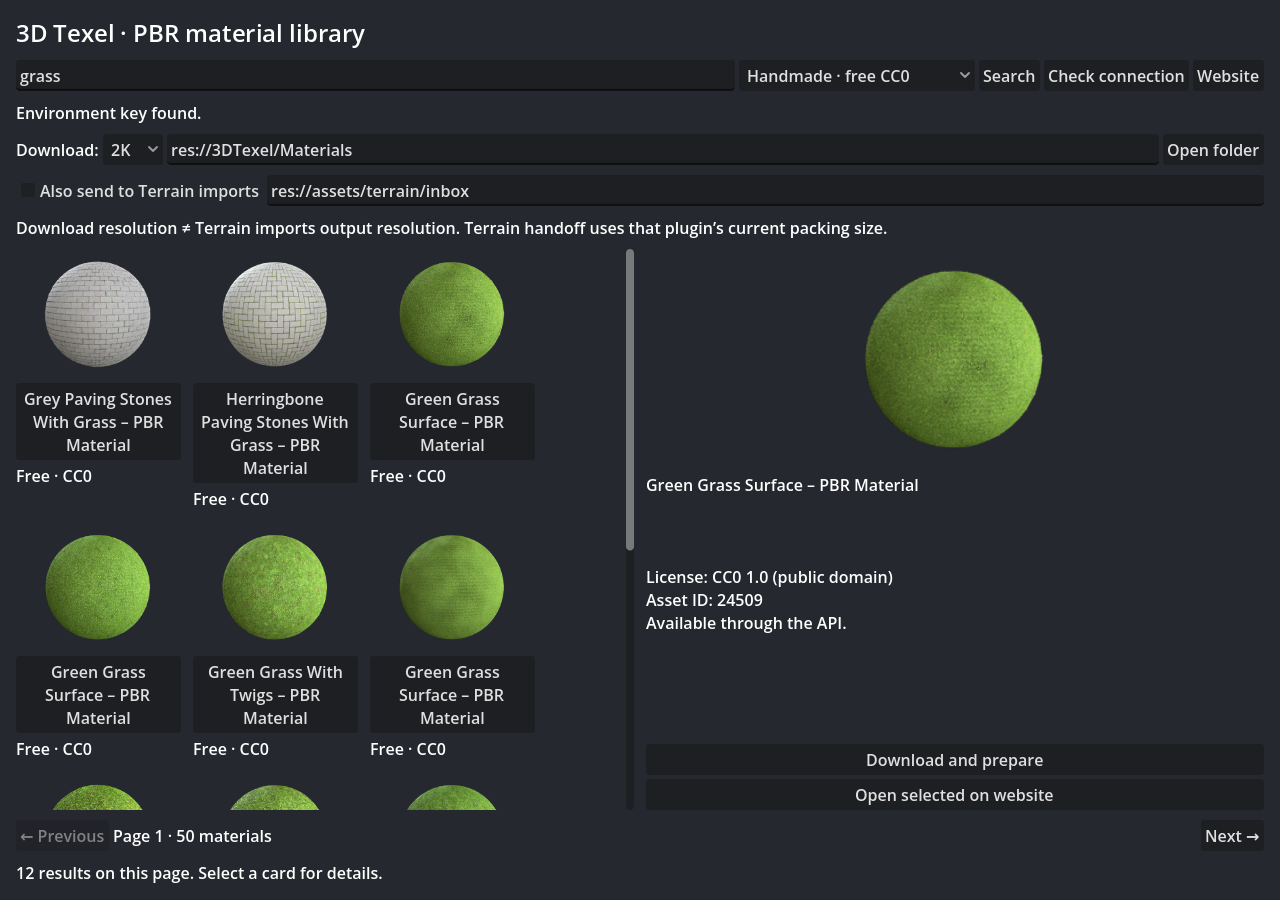
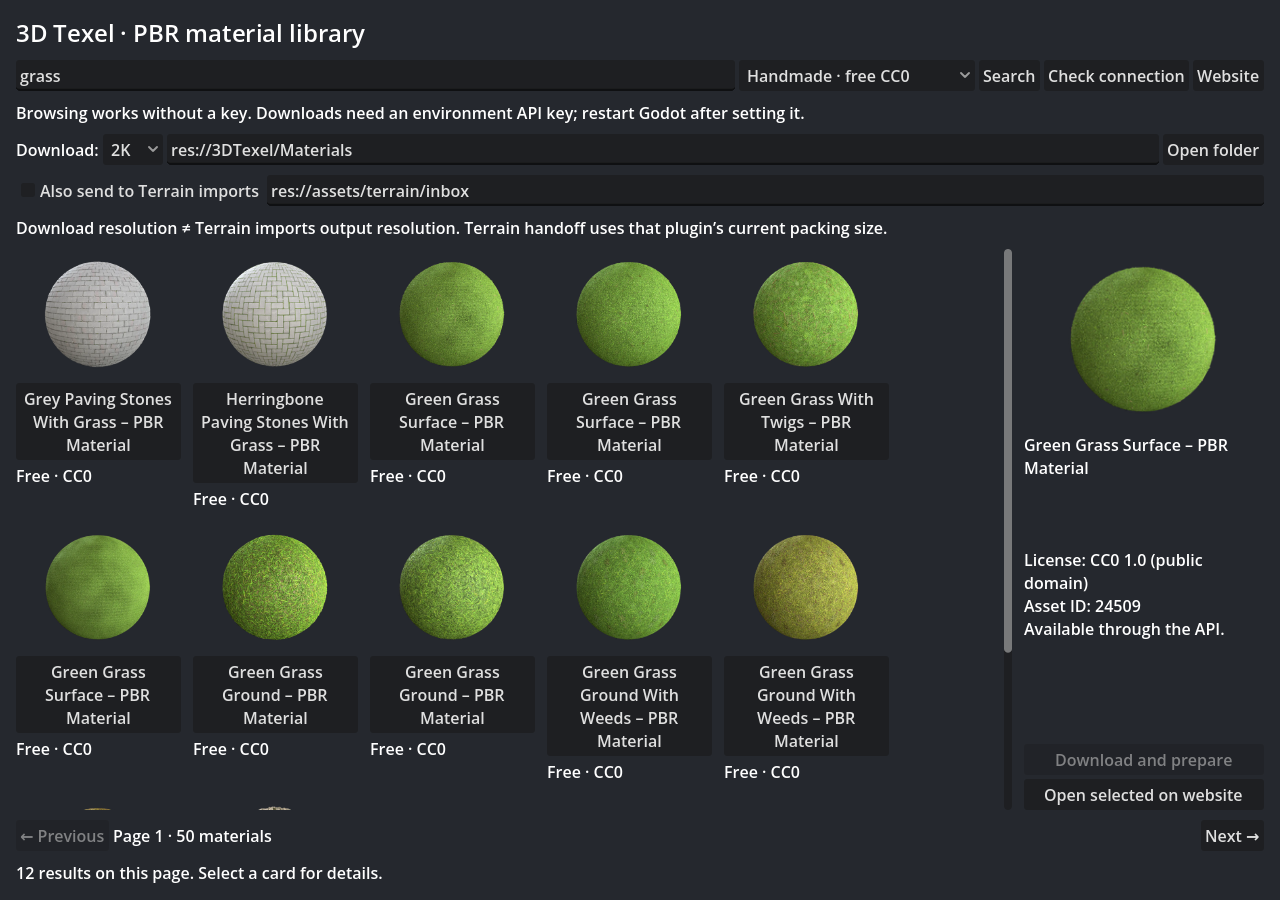
Fix editor panel expansion and responsive material browser layout

diff --git a/README.md b/README.md
@@ -24,6 +24,9 @@ first release: the importer sends `max_credits: 0` and does not provide paid dow
 or generation. Source pages remain available through **Open selected on website**.
 Some assets are website-only; API errors are shown without exposing credentials.
 
+The browser fills the editor panel, adapts its grid column count to the available
+width, wraps toolbar controls and stacks details beneath results in narrow windows.
+
 ## Authentication
 
 Search works without a key. Downloads require a 3DTexel account and an API key with
